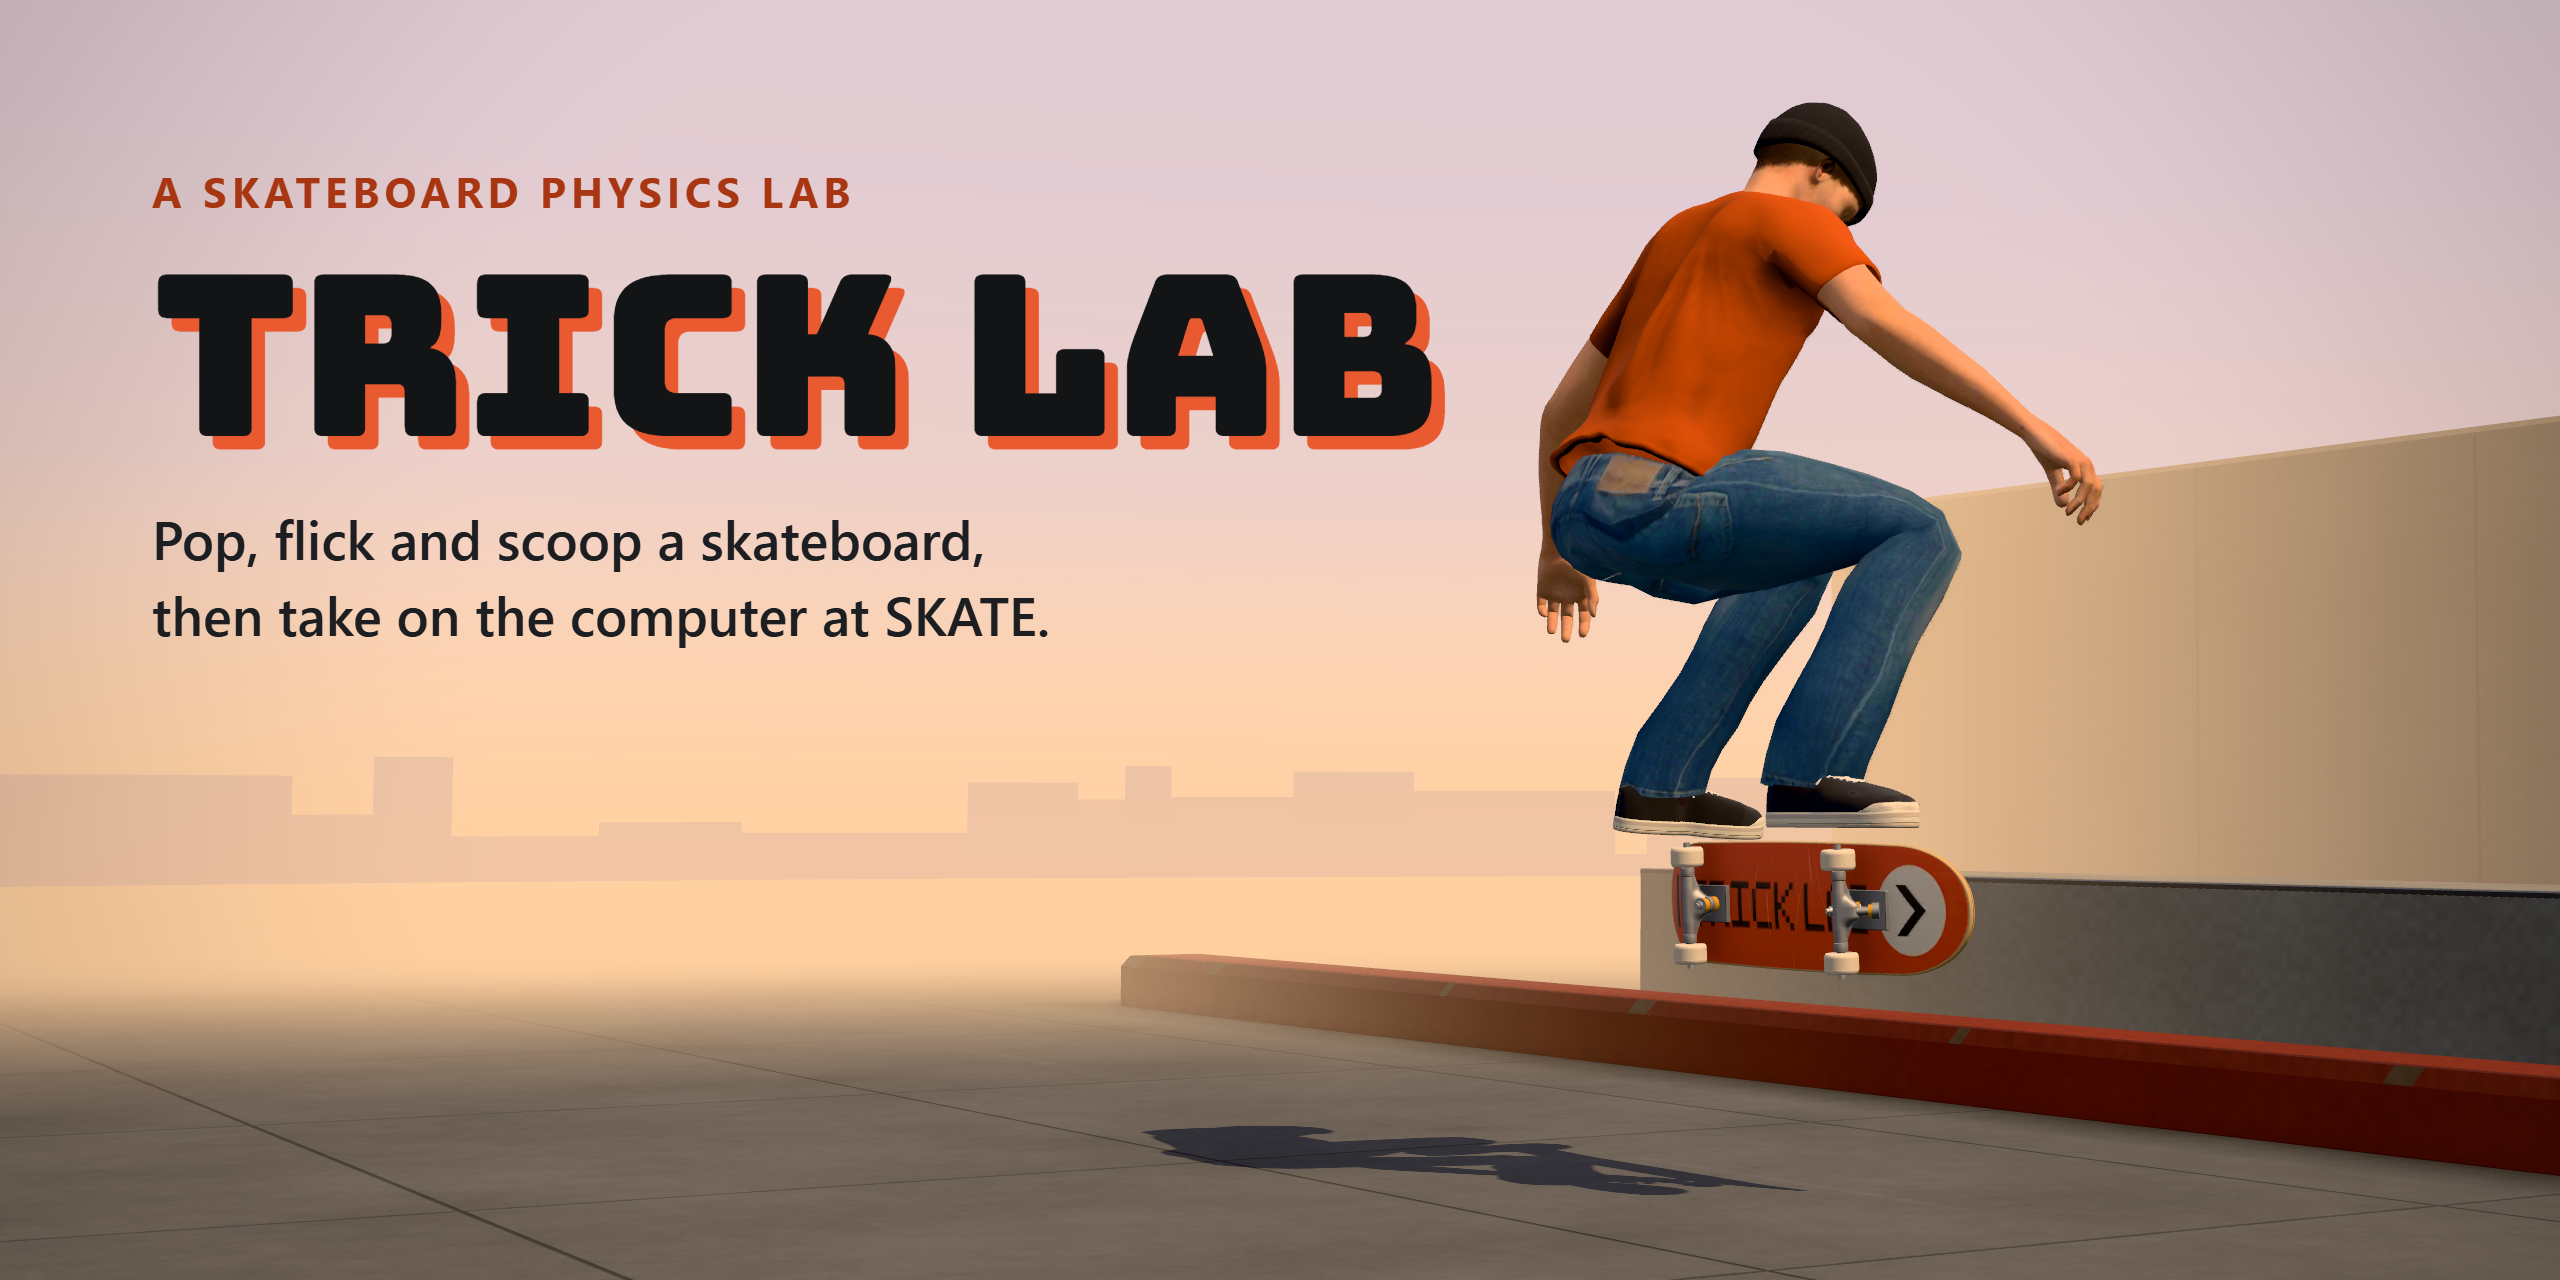
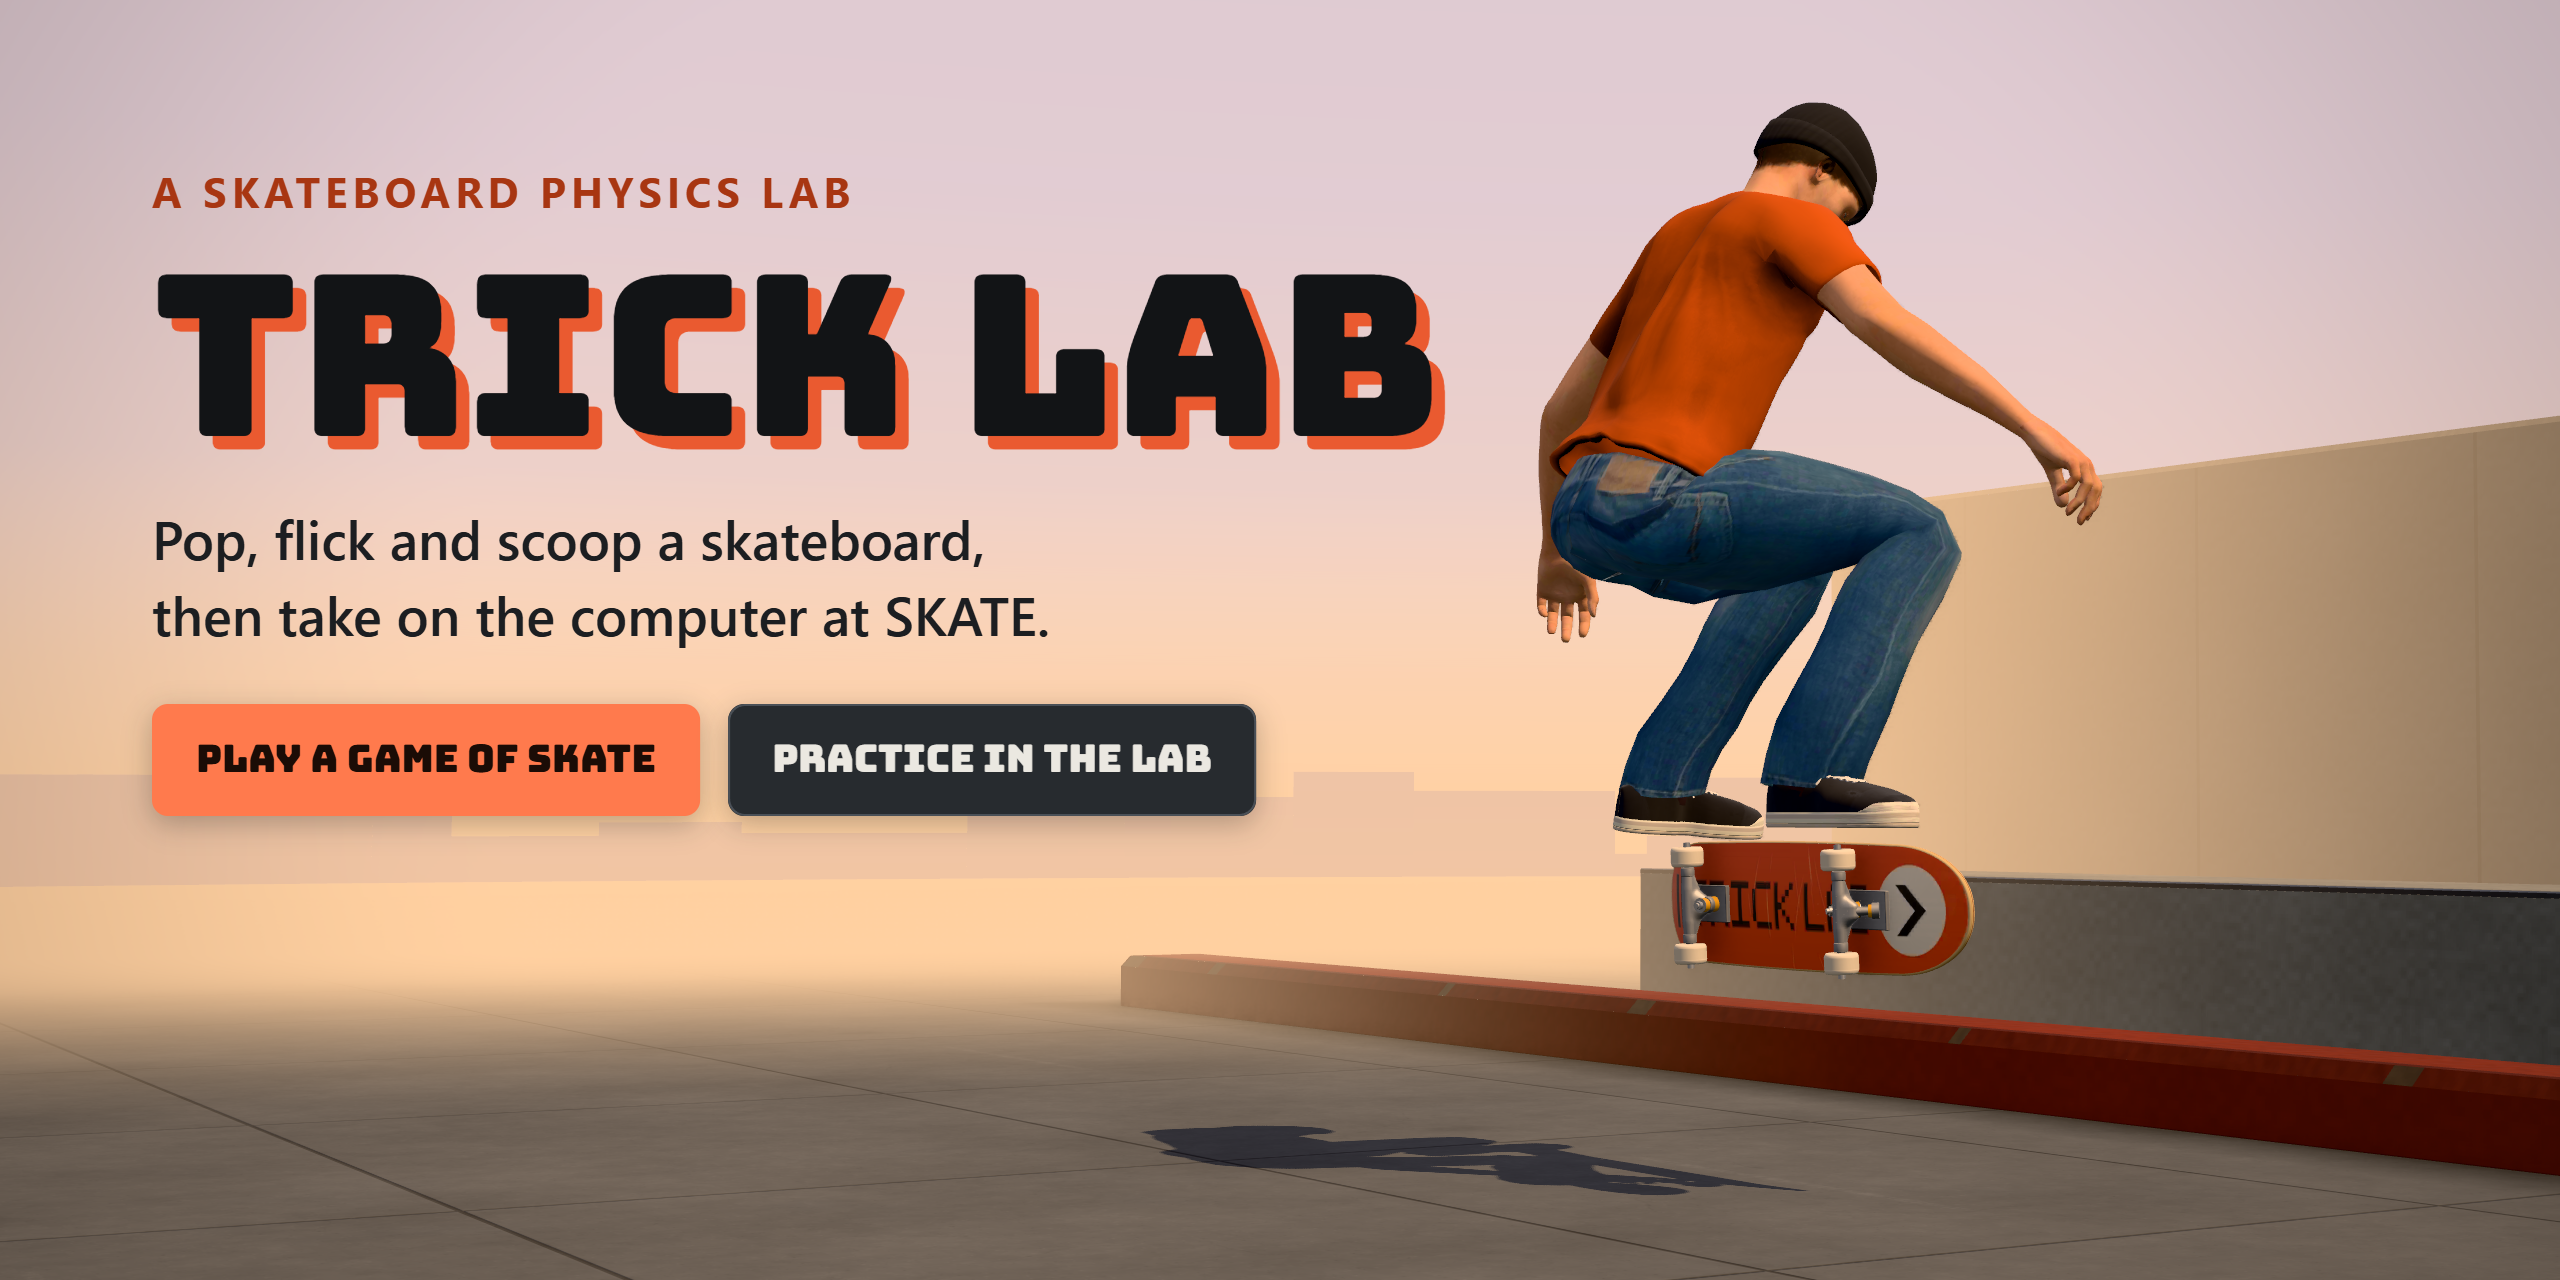
Card: mockups of the welcome screen's two choices under the tagline
Play a game of SKATE in the accent orange and Practice in the lab on the raised surface, in the display face with the welcome screen's dark theme colours, drawn by the shot script. The README's alt text names them.

Changed region(s): [[0.0312, 0.5312, 0.5, 0.6562]]

diff --git a/scripts/shot/capture.js b/scripts/shot/capture.js
@@ -200,6 +200,37 @@ async (page) => {
           g.fillStyle = '#1c1e21';
           g.fillText('Pop, flick and scoop a skateboard,', x, 280 * k);
           g.fillText('then take on the computer at SKATE.', x, 318 * k);
+          // Mockups of the welcome screen's two choices (its `.choice` buttons, dark theme tokens): the game in the
+          // accent orange, the lab on the raised surface with a hairline. Pictures, not links.
+          const button = (label, left, fill, ink, line) => {
+            g.font = `${19 * k}px Bungee`;
+            const w = g.measureText(label).width + 44 * k;
+            const top = 352 * k;
+            const h = 56 * k;
+            g.save();
+            g.shadowColor = 'rgba(18, 20, 22, 0.28)';
+            g.shadowBlur = 14 * k;
+            g.shadowOffsetY = 4 * k;
+            g.beginPath();
+            g.roundRect(left, top, w, h, 8 * k);
+            g.fillStyle = fill;
+            g.fill();
+            g.restore();
+            if (line) {
+              g.beginPath();
+              g.roundRect(left + 0.5 * k, top + 0.5 * k, w - k, h - k, 8 * k);
+              g.strokeStyle = line;
+              g.lineWidth = k;
+              g.stroke();
+            }
+            g.fillStyle = ink;
+            g.textBaseline = 'middle';
+            g.fillText(label, left + 22 * k, top + h / 2 + 1 * k);
+            g.textBaseline = 'alphabetic';
+            return w;
+          };
+          const first = button('PLAY A GAME OF SKATE', x, '#ff7a4d', '#1b0c06', null);
+          button('PRACTICE IN THE LAB', x + first + 14 * k, '#272b2f', '#ebe8e1', '#4a5057');
           return c.toDataURL('image/png').split(',')[1];
         },
         [png, shot.w],

diff --git a/README.md b/README.md
@@ -1,6 +1,6 @@
 # Trick Lab: land the trick
 
-![Trick Lab, a skateboard physics lab: the rider mid kickflip over a kerb and a ledge in golden-hour light, the deck graphic facing the camera. Pop, flick and scoop a skateboard, then take on the computer at SKATE.](docs/screenshots/card.png)
+![Trick Lab, a skateboard physics lab: the rider mid kickflip over a kerb and a ledge in golden-hour light, the deck graphic facing the camera. Pop, flick and scoop a skateboard, then take on the computer at SKATE. Two buttons: Play a game of SKATE, and Practice in the lab.](docs/screenshots/card.png)
 
 [![Verify](https://github.com/Vibin-LLC-2025/trick-lab/actions/workflows/verify.yml/badge.svg)](https://github.com/Vibin-LLC-2025/trick-lab/actions/workflows/verify.yml)
 [![Deploy](https://github.com/Vibin-LLC-2025/trick-lab/actions/workflows/deploy.yml/badge.svg)](https://github.com/Vibin-LLC-2025/trick-lab/actions/workflows/deploy.yml)
